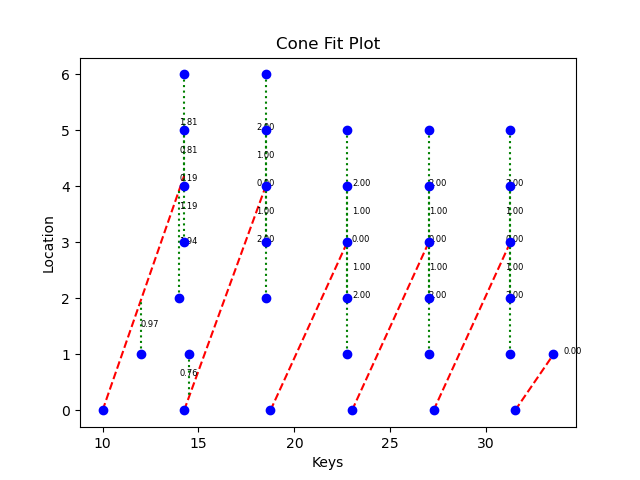
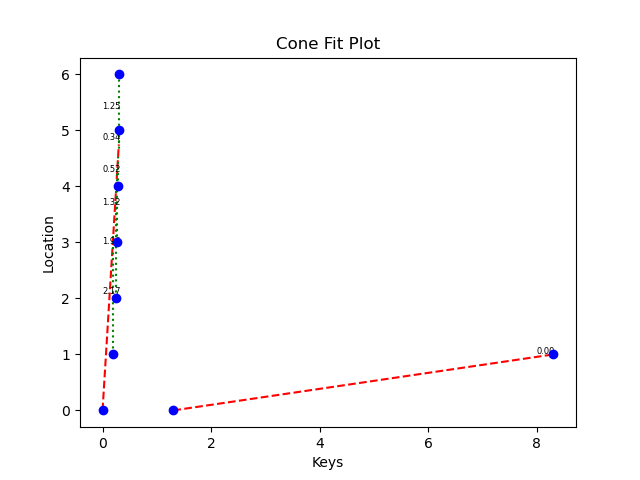
cosmetic changes

diff --git a/src/segment.cpp b/src/segment.cpp
@@ -172,7 +172,7 @@ std::vector<std::pair<float, Segment*>> gen_segments_dcone(float* data, int size
                     res.emplace_back(data[i - 1], seg);
                     if(i < ind){
                         // break computed segment :(
-                        std::cerr << "Lost " << (ind - i) << " iterations (" << (ind - i) * 100.0 / size << "% of total)\n";
+                        std::cerr << "Lost " << (ind - i) << " iterations (" << (float)(ind - i) / size << " of total)\n";
                         ind = i;
                     }
                     break;
@@ -213,7 +213,7 @@ std::vector<std::pair<float, Segment*>> gen_segments_dcone(float* data, int size
         res.emplace_back(data[i - 1], seg);
         if(i < ind){
             // break computed segment :(
-            std::cerr << "Lost " << (ind - i) << " iterations (" << (float)(ind - i) / size << "% of total)\n";
+            std::cerr << "Lost " << (ind - i) << " iterations (" << (float)(ind - i) / size << " of total)\n";
             ind = i;
             goto Make_Segment;
         }

diff --git a/src/main.cpp b/src/main.cpp
@@ -51,11 +51,11 @@ int main(int argc, char *argv[])
     NUM_VALS = std::stoi(argv[1]);
     MAX_ERR = std::stoi(argv[2]);
 
-    // float* vals = (float*) malloc(sizeof(float) * NUM_VALS);
-    // for (int i = 0; i < NUM_VALS; i++)
-    // {
-    //     vals[i] = gen_func(i);
-    // }
+    float* vals = (float*) malloc(sizeof(float) * NUM_VALS);
+    for (int i = 0; i < NUM_VALS; i++)
+    {
+        vals[i] = gen_func(i);
+    }
 
     // float* vals = (float*) malloc(sizeof(float) * NUM_VALS);
     // int rep_cnt = 0.7 * NUM_VALS;
@@ -68,9 +68,9 @@ int main(int argc, char *argv[])
     //     vals[i] = 1+ gen_func(i);
     // }
 
-    int N = 5;
-    NUM_VALS = 4 + (N * (MAX_ERR + 2));
-    float* vals = gen_edgecase(MAX_ERR, N);
+    // int N = 5;
+    // NUM_VALS = 4 + (N * (MAX_ERR + 2));
+    // float* vals = gen_edgecase(MAX_ERR, N);
 
     std::vector<std::pair<float, Segment *>> cone_data = gen_segments_cone(vals, NUM_VALS, MAX_ERR);
     std::vector<std::pair<float, Segment *>> dcone_data = gen_segments_dcone(vals, NUM_VALS, MAX_ERR);
